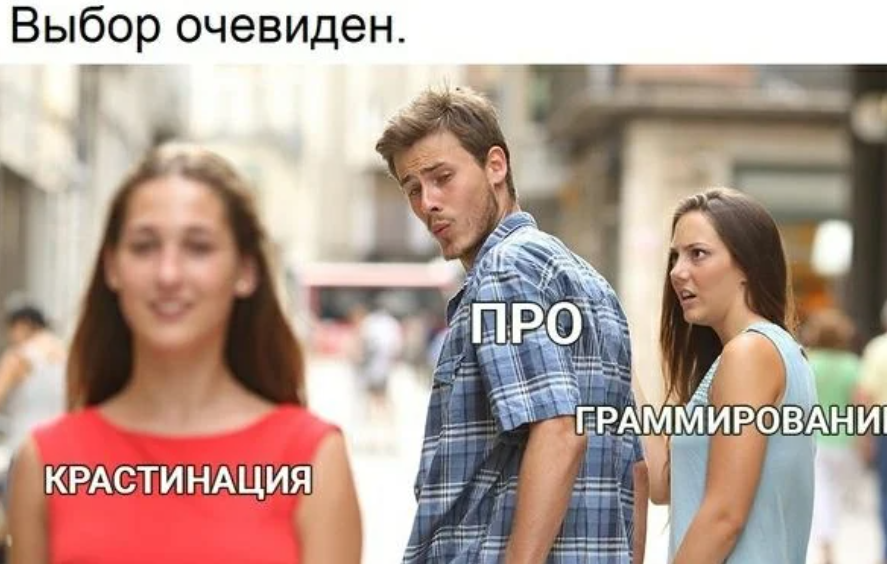
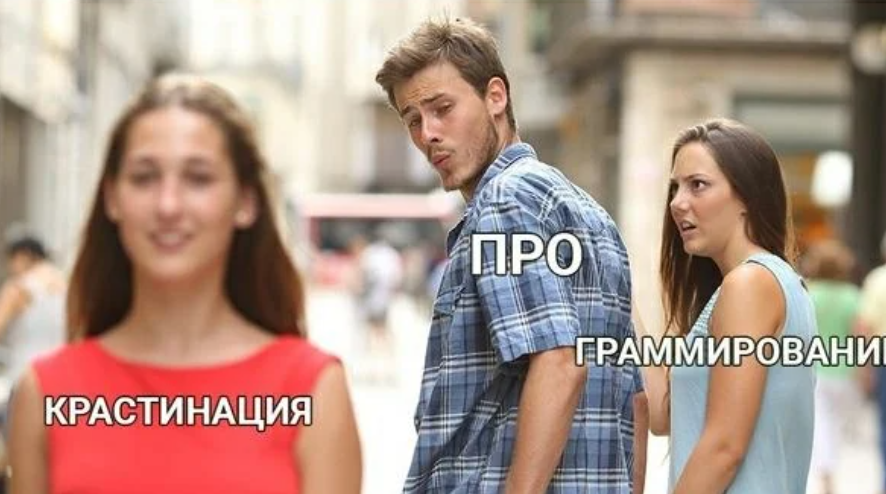
feat: add style (Tue, Aug 29, 2023 10:08:36 PM)

diff --git a/cssMemeSlider/index.html b/cssMemeSlider/index.html
@@ -41,10 +41,7 @@
      <img class="meme__picture" src="./assets/не_знаем.jpg" alt="не_знаем" />
     </label>
     <div class="footer__block">
-     <span class="meme__name">
-      Страшно, очень страшно! Мы не знаем что это такое Если бы мы знали что это
-      такое, мы не знаем что это такое
-     </span>
+     <span class="meme__name">Страшно, очень страшно!</span>
      <div class="block__buttons">
       <input class="button" type="radio" name="meme" id="meme1" />
       <input class="button" type="radio" name="meme" id="meme2" />

diff --git a/cssMemeSlider/style.css b/cssMemeSlider/style.css
@@ -8,8 +8,10 @@ body {
 }
 
 .meme__picture {
-  width: 35vw;
+  width: 70vw;
+  margin: 4% 0;
   text-align: center;
+  box-shadow: 0px 0px 15px 10px #000;
 }
 
 .meme__name {
@@ -20,6 +22,7 @@ body {
 .wrapper {
   margin: 0 auto;
   text-align: center;
+  width: 70vw;
 }
 
 .item__meme {
